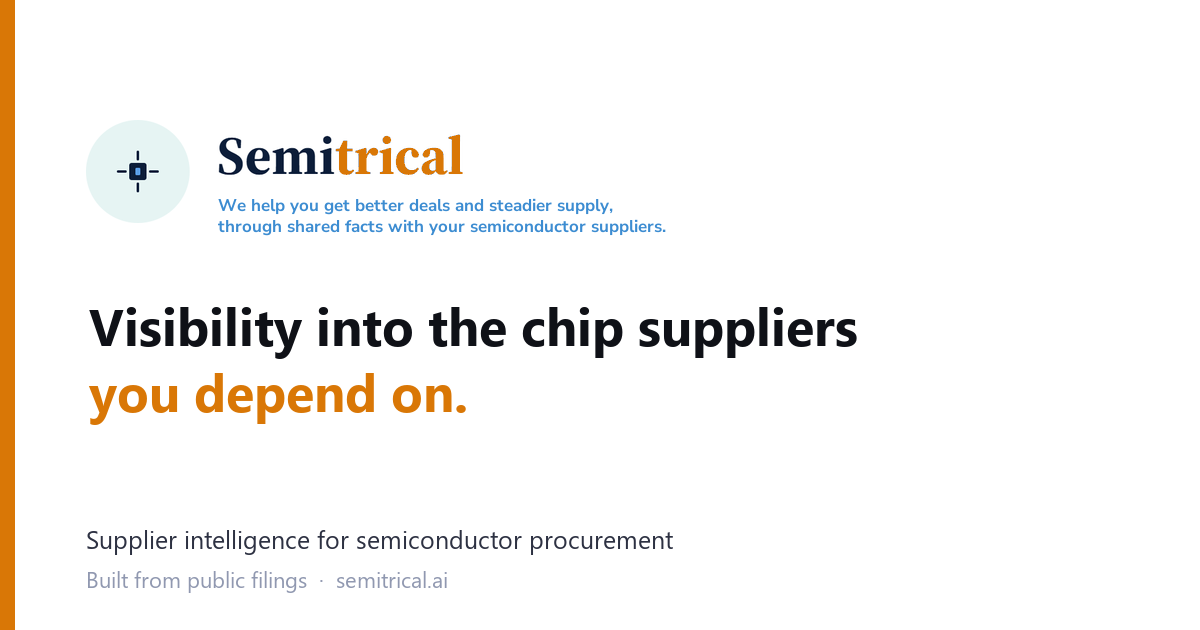
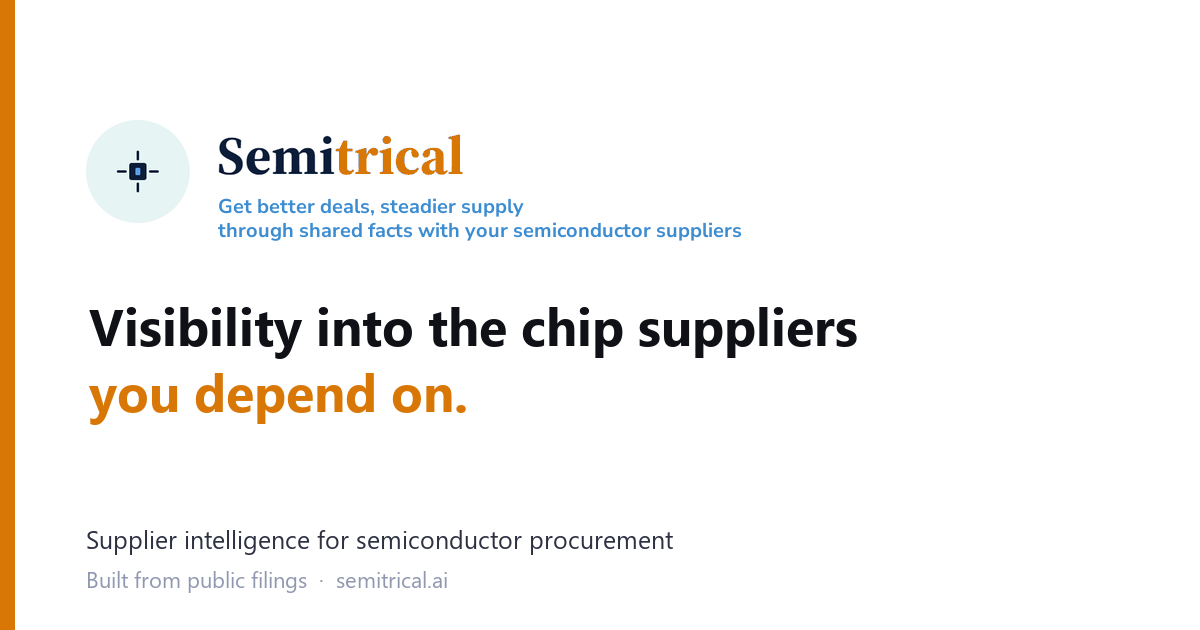
copy: tagline is now 'Get better deals, steadier supply through shared facts with your semiconductor suppliers'
Shorter wording, per Amit, and set larger in the logo (26px, was 22px) and the social preview
image (20px, was 17px). Both images rebuilt from the originals so no trace of the previous line
remains. Logo stays 907x168, so no header size changes.

Changed region(s): [[0.185, 0.3016, 0.6167, 0.3921]]

diff --git a/suppliers/index.html b/suppliers/index.html
@@ -335,7 +335,7 @@ footer.lf-chrome img { height: 40px !important; }
 </head>
 <body>
 <nav class="lf-chrome" style="display:flex;align-items:center;border-bottom:1px solid #e2e4ea;background:#fff;font-family:'DM Sans',system-ui,sans-serif">
-  <a href="/" aria-label="Semitrical home" style="display:block;text-decoration:none"><img src="/assets/img/semitrical-logo.png" alt="Semitrical &mdash; We help you get better deals and steadier supply, through shared facts with your semiconductor suppliers." height="34" style="display:block;height:34px;width:auto"></a>
+  <a href="/" aria-label="Semitrical home" style="display:block;text-decoration:none"><img src="/assets/img/semitrical-logo.png" alt="Semitrical &mdash; Get better deals, steadier supply through shared facts with your semiconductor suppliers." height="34" style="display:block;height:34px;width:auto"></a>
   <div style="display:flex;align-items:center;gap:28px;margin-left:48px;flex-wrap:wrap">
     <a href="/" style="font-size:13px;font-weight:500;color:#5c6078;text-decoration:none">Platform</a>
     <a href="/supplier-intelligence.html" style="font-size:13px;font-weight:500;color:#5c6078;text-decoration:none">Supplier Intelligence</a>
@@ -355,7 +355,7 @@ footer.lf-chrome img { height: 40px !important; }
       <div class="cov-mark">S</div>
       <div>
         <div class="cov-brand-text">Semitrical</div>
-        <span class="cov-brand-sub">We help you get better deals and steadier supply, through shared facts with your semiconductor suppliers.</span>
+        <span class="cov-brand-sub">Get better deals, steadier supply through shared facts with your semiconductor suppliers.</span>
       </div>
     </div>
     <div class="cov-headline">
@@ -821,7 +821,7 @@ footer.lf-chrome img { height: 40px !important; }
 <div class="bc">
   <div class="bc-logo">
     <div class="bc-mark">S</div>
-    <div><div class="bc-brand">Semitrical</div><span class="bc-brand-sub">We help you get better deals and steadier supply, through shared facts with your semiconductor suppliers.</span></div>
+    <div><div class="bc-brand">Semitrical</div><span class="bc-brand-sub">Get better deals, steadier supply through shared facts with your semiconductor suppliers.</span></div>
   </div>
   <div>
     <div class="bc-h1">Before your next<br>design-in review,<br><span>ask us for a read.</span></div>

diff --git a/deal-desks/dram/index.html b/deal-desks/dram/index.html
@@ -162,7 +162,7 @@ footer.lf-chrome img { height: 40px !important; }
 <div class="pdf-only pdf-mark" aria-hidden="true">semitrical.ai</div>
 
 <nav class="lf-chrome" style="display:flex;align-items:center;border-bottom:1px solid #e2e4ea;background:#fff;font-family:'DM Sans',system-ui,sans-serif">
-  <a href="/" aria-label="Semitrical home" style="display:block;text-decoration:none"><img src="/assets/img/semitrical-logo.png" alt="Semitrical &mdash; We help you get better deals and steadier supply, through shared facts with your semiconductor suppliers." height="34" style="display:block;height:34px;width:auto"></a>
+  <a href="/" aria-label="Semitrical home" style="display:block;text-decoration:none"><img src="/assets/img/semitrical-logo.png" alt="Semitrical &mdash; Get better deals, steadier supply through shared facts with your semiconductor suppliers." height="34" style="display:block;height:34px;width:auto"></a>
   <div style="display:flex;align-items:center;gap:28px;margin-left:48px;flex-wrap:wrap">
     <a href="/" style="font-size:13px;font-weight:500;color:#5c6078;text-decoration:none">Platform</a>
     <a href="/supplier-intelligence.html" style="font-size:13px;font-weight:500;color:#5c6078;text-decoration:none">Supplier Intelligence</a>

diff --git a/deal-desks/silicon-carbide/index.html b/deal-desks/silicon-carbide/index.html
@@ -162,7 +162,7 @@ footer.lf-chrome img { height: 40px !important; }
 <div class="pdf-only pdf-mark" aria-hidden="true">semitrical.ai</div>
 
 <nav class="lf-chrome" style="display:flex;align-items:center;border-bottom:1px solid #e2e4ea;background:#fff;font-family:'DM Sans',system-ui,sans-serif">
-  <a href="/" aria-label="Semitrical home" style="display:block;text-decoration:none"><img src="/assets/img/semitrical-logo.png" alt="Semitrical &mdash; We help you get better deals and steadier supply, through shared facts with your semiconductor suppliers." height="34" style="display:block;height:34px;width:auto"></a>
+  <a href="/" aria-label="Semitrical home" style="display:block;text-decoration:none"><img src="/assets/img/semitrical-logo.png" alt="Semitrical &mdash; Get better deals, steadier supply through shared facts with your semiconductor suppliers." height="34" style="display:block;height:34px;width:auto"></a>
   <div style="display:flex;align-items:center;gap:28px;margin-left:48px;flex-wrap:wrap">
     <a href="/" style="font-size:13px;font-weight:500;color:#5c6078;text-decoration:none">Platform</a>
     <a href="/supplier-intelligence.html" style="font-size:13px;font-weight:500;color:#5c6078;text-decoration:none">Supplier Intelligence</a>

diff --git a/reports/netapp/index.html b/reports/netapp/index.html
@@ -309,7 +309,7 @@ footer.lf-chrome img{height:40px!important}
 <div class="pdf-only pdf-mark" aria-hidden="true">semitrical.ai</div>
 
 <nav class="lf-chrome" style="display:flex;align-items:center;border-bottom:1px solid #e2e4ea;background:#fff;font-family:'DM Sans',system-ui,sans-serif">
-  <a href="/" aria-label="Semitrical home" style="display:block;text-decoration:none"><img src="/assets/img/semitrical-logo.png" alt="Semitrical &mdash; We help you get better deals and steadier supply, through shared facts with your semiconductor suppliers." height="60" style="display:block;height:60px;width:auto"></a>
+  <a href="/" aria-label="Semitrical home" style="display:block;text-decoration:none"><img src="/assets/img/semitrical-logo.png" alt="Semitrical &mdash; Get better deals, steadier supply through shared facts with your semiconductor suppliers." height="60" style="display:block;height:60px;width:auto"></a>
   <div style="display:flex;align-items:center;gap:28px;margin-left:48px;flex-wrap:wrap">
     <a href="/" style="font-size:13px;font-weight:500;color:#5c6078;text-decoration:none">Platform</a>
     <a href="/supplier-intelligence.html" style="font-size:13px;font-weight:500;color:#5c6078;text-decoration:none">Supplier Intelligence</a>

diff --git a/index.html b/index.html
@@ -29,7 +29,7 @@
 <body>
 
 <nav>
-  <a class="logo" href="/" aria-label="Semitrical home"><img src="assets/img/semitrical-logo.png" alt="Semitrical &mdash; We help you get better deals and steadier supply, through shared facts with your semiconductor suppliers." height="34"></a>
+  <a class="logo" href="/" aria-label="Semitrical home"><img src="assets/img/semitrical-logo.png" alt="Semitrical &mdash; Get better deals, steadier supply through shared facts with your semiconductor suppliers." height="34"></a>
   <div class="nav-links" id="nav-links">
     <a href="/" class="is-current" aria-current="page">Platform</a>
     <a href="supplier-intelligence.html">Supplier Intelligence</a>
@@ -45,7 +45,7 @@
   <span class="hero-badge">SUPPLIER INTELLIGENCE FOR SEMICONDUCTOR PROCUREMENT</span>
   <h1>Visibility into the chip suppliers you depend on.</h1>
   <p class="hero-sub">
-    We help you get better deals and steadier supply, through shared facts with your semiconductor suppliers.
+    Get better deals, steadier supply through shared facts with your semiconductor suppliers.
   </p>
   <div class="hero-actions">
     <a class="btn-primary" href="supplier-intelligence.html">Read this week&rsquo;s supplier focus &mdash; free</a>

diff --git a/reports/supplier-leverage/index.html b/reports/supplier-leverage/index.html
@@ -172,7 +172,7 @@ footer.lf-chrome img { height: 40px !important; }
 </head>
 <body>
 <nav class="lf-chrome" style="display:flex;align-items:center;border-bottom:1px solid #e2e4ea;background:#fff;font-family:'DM Sans',system-ui,sans-serif">
-  <a href="/" aria-label="Semitrical home" style="display:block;text-decoration:none"><img src="/assets/img/semitrical-logo.png" alt="Semitrical &mdash; We help you get better deals and steadier supply, through shared facts with your semiconductor suppliers." height="34" style="display:block;height:34px;width:auto"></a>
+  <a href="/" aria-label="Semitrical home" style="display:block;text-decoration:none"><img src="/assets/img/semitrical-logo.png" alt="Semitrical &mdash; Get better deals, steadier supply through shared facts with your semiconductor suppliers." height="34" style="display:block;height:34px;width:auto"></a>
   <div style="display:flex;align-items:center;gap:28px;margin-left:48px;flex-wrap:wrap">
     <a href="/" style="font-size:13px;font-weight:500;color:#5c6078;text-decoration:none">Platform</a>
     <a href="/supplier-intelligence.html" style="font-size:13px;font-weight:500;color:#5c6078;text-decoration:none">Supplier Intelligence</a>

diff --git a/semitrical/index.html b/semitrical/index.html
@@ -79,7 +79,7 @@ footer b{color:var(--text);font-weight:600;} footer a{color:var(--accent);text-d
 <g stroke="#5B9FE8" stroke-width="1.6" stroke-linecap="round"><line x1="12" y1="2.5" x2="12" y2="7.5"/><line x1="12" y1="16.5" x2="12" y2="21.5"/><line x1="2.5" y1="12" x2="7.5" y2="12"/><line x1="16.5" y1="12" x2="21.5" y2="12"/></g>
 <rect x="8" y="8" width="8" height="8" rx="1.6" fill="#12233f" stroke="#5B9FE8" stroke-width="1.4"/><rect x="10.6" y="10.6" width="2.8" height="2.8" rx="0.6" fill="#5B9FE8"/>
 </svg>
-<div class="wm">Semitrical<small>We help you get better deals and steadier supply, through shared facts with your semiconductor suppliers.</small></div>
+<div class="wm">Semitrical<small>Get better deals, steadier supply through shared facts with your semiconductor suppliers.</small></div>
 </div>
 <div class="hero">
 <div class="kicker">The Automotive Chip Buyer's Handbook</div>

diff --git a/supplier-intelligence.html b/supplier-intelligence.html
@@ -29,7 +29,7 @@
 <body>
 
 <nav>
-  <a class="logo" href="/" aria-label="Semitrical home"><img src="assets/img/semitrical-logo.png" alt="Semitrical &mdash; We help you get better deals and steadier supply, through shared facts with your semiconductor suppliers." height="34"></a>
+  <a class="logo" href="/" aria-label="Semitrical home"><img src="assets/img/semitrical-logo.png" alt="Semitrical &mdash; Get better deals, steadier supply through shared facts with your semiconductor suppliers." height="34"></a>
   <div class="nav-links" id="nav-links">
     <a href="/">Platform</a>
     <a href="supplier-intelligence.html" class="is-current" aria-current="page">Supplier Intelligence</a>

diff --git a/about.html b/about.html
@@ -29,7 +29,7 @@
 <body>
 
 <nav>
-  <a class="logo" href="/" aria-label="Semitrical home"><img src="assets/img/semitrical-logo.png" alt="Semitrical &mdash; We help you get better deals and steadier supply, through shared facts with your semiconductor suppliers." height="34"></a>
+  <a class="logo" href="/" aria-label="Semitrical home"><img src="assets/img/semitrical-logo.png" alt="Semitrical &mdash; Get better deals, steadier supply through shared facts with your semiconductor suppliers." height="34"></a>
   <div class="nav-links" id="nav-links">
     <a href="/">Platform</a>
     <a href="supplier-intelligence.html">Supplier Intelligence</a>

diff --git a/choose-suppliers.html b/choose-suppliers.html
@@ -29,7 +29,7 @@
 <body>
 
 <nav>
-  <a class="logo" href="/" aria-label="Semitrical home"><img src="assets/img/semitrical-logo.png" alt="Semitrical &mdash; We help you get better deals and steadier supply, through shared facts with your semiconductor suppliers." height="34"></a>
+  <a class="logo" href="/" aria-label="Semitrical home"><img src="assets/img/semitrical-logo.png" alt="Semitrical &mdash; Get better deals, steadier supply through shared facts with your semiconductor suppliers." height="34"></a>
   <div class="nav-links" id="nav-links">
     <a href="/">Platform</a>
     <a href="supplier-intelligence.html">Supplier Intelligence</a>

diff --git a/contact.html b/contact.html
@@ -30,7 +30,7 @@
 <body>
 
 <nav>
-  <a class="logo" href="/" aria-label="Semitrical home"><img src="assets/img/semitrical-logo.png" alt="Semitrical &mdash; We help you get better deals and steadier supply, through shared facts with your semiconductor suppliers." height="34"></a>
+  <a class="logo" href="/" aria-label="Semitrical home"><img src="assets/img/semitrical-logo.png" alt="Semitrical &mdash; Get better deals, steadier supply through shared facts with your semiconductor suppliers." height="34"></a>
   <div class="nav-links" id="nav-links">
     <a href="/">Platform</a>
     <a href="supplier-intelligence.html">Supplier Intelligence</a>

diff --git a/deal-desk.html b/deal-desk.html
@@ -29,7 +29,7 @@
 <body>
 
 <nav>
-  <a class="logo" href="/" aria-label="Semitrical home"><img src="assets/img/semitrical-logo.png" alt="Semitrical &mdash; We help you get better deals and steadier supply, through shared facts with your semiconductor suppliers." height="34"></a>
+  <a class="logo" href="/" aria-label="Semitrical home"><img src="assets/img/semitrical-logo.png" alt="Semitrical &mdash; Get better deals, steadier supply through shared facts with your semiconductor suppliers." height="34"></a>
   <div class="nav-links" id="nav-links">
     <a href="/">Platform</a>
     <a href="supplier-intelligence.html">Supplier Intelligence</a>
